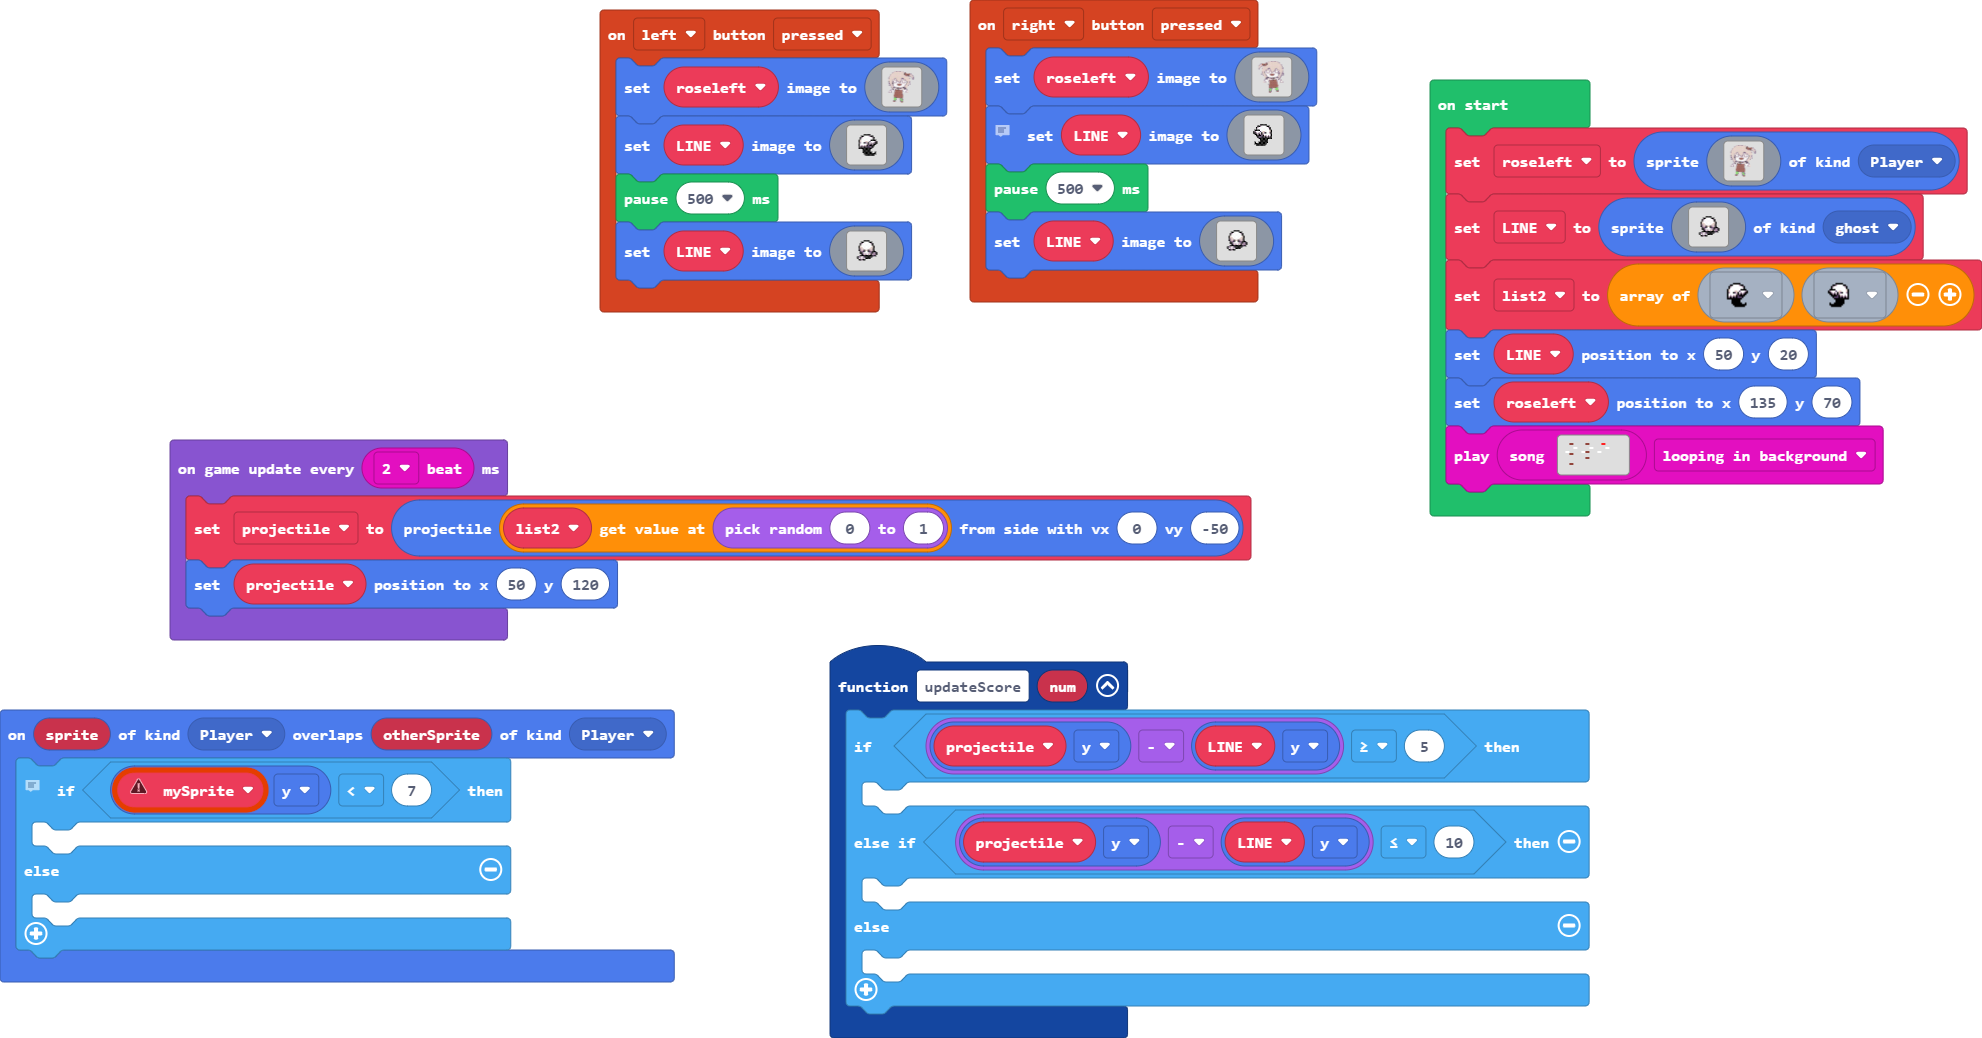
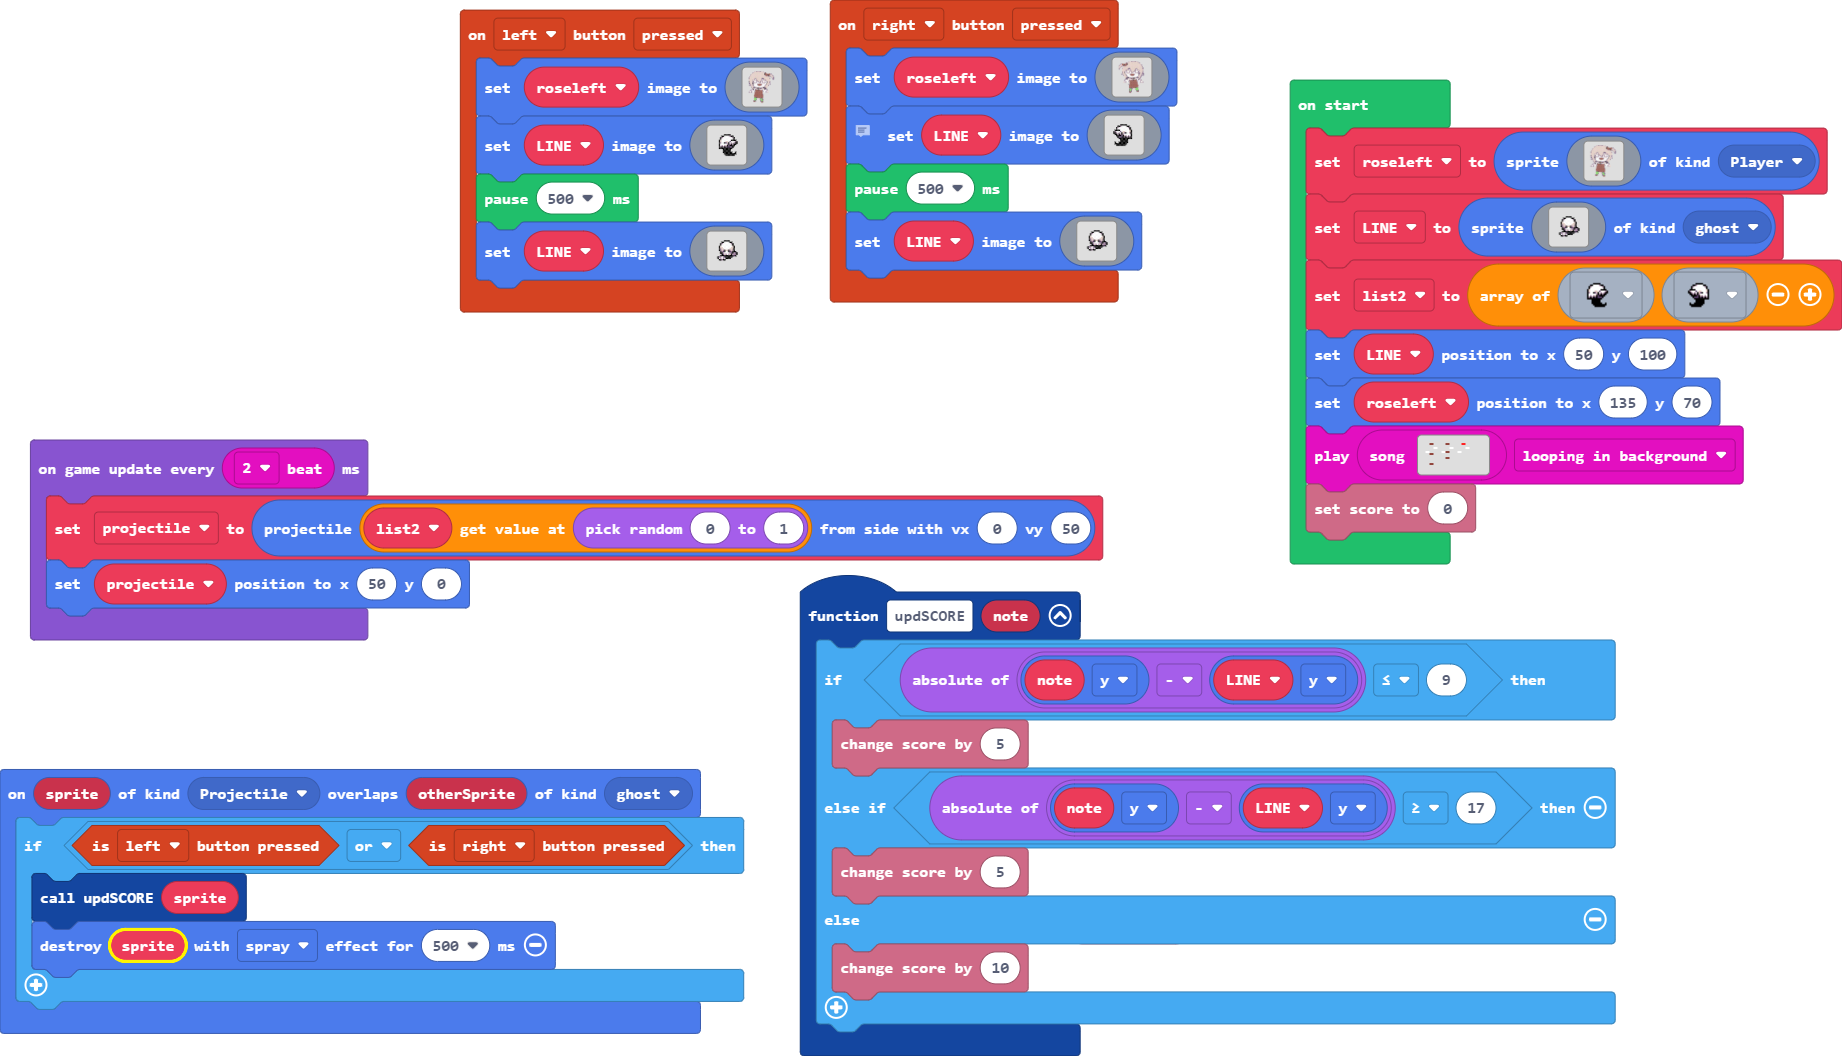
Update main.blocks, main.ts, tilemap.g.jres, tilemap.g.ts

diff --git a/main.ts b/main.ts
@@ -165,25 +165,21 @@ controller.right.onEvent(ControllerButtonEvent.Pressed, function () {
         ........................
         `)
 })
-sprites.onOverlap(SpriteKind.Player, SpriteKind.Player, function (sprite, otherSprite) {
-    let mySprite: Sprite = null
-    // 5>10
-    // 10<12
-    if (mySprite.y < 7) {
-    	
+function updSCORE (note: Sprite) {
+    if (Math.abs(note.y - LINE.y) <= 9) {
+        info.changeScoreBy(5)
+    } else if (Math.abs(note.y - LINE.y) >= 17) {
+        info.changeScoreBy(5)
     } else {
-    	
-    }
-})
-function updateScore (num: number) {
-    if (projectile.y - LINE.y >= 5) {
-    	
-    } else if (projectile.y - LINE.y <= 10) {
-    	
-    } else {
-    	
+        info.changeScoreBy(10)
     }
 }
+sprites.onOverlap(SpriteKind.Projectile, SpriteKind.ghost, function (sprite, otherSprite) {
+    if (controller.left.isPressed() || controller.right.isPressed()) {
+        updSCORE(sprite)
+        sprites.destroy(sprite, effects.spray, 500)
+    }
+})
 let projectile: Sprite = null
 let LINE: Sprite = null
 let roseleft: Sprite = null
@@ -266,10 +262,11 @@ LINE = sprites.create(img`
     ........................
     `, SpriteKind.ghost)
 let list2 = [sprites.castle.skellyAttackLeft1, sprites.castle.skellyAttackRight2]
-LINE.setPosition(50, 20)
+LINE.setPosition(50, 100)
 roseleft.setPosition(135, 70)
 music.play(music.createSong(assets.song`mySong`), music.PlaybackMode.LoopingInBackground)
+info.setScore(0)
 game.onUpdateInterval(music.beat(BeatFraction.Double), function () {
-    projectile = sprites.createProjectileFromSide(list2[randint(0, 1)], 0, -50)
-    projectile.setPosition(50, 120)
+    projectile = sprites.createProjectileFromSide(list2[randint(0, 1)], 0, 50)
+    projectile.setPosition(50, 0)
 })

diff --git a/tilemap.g.ts b/tilemap.g.ts
@@ -146,6 +146,25 @@ namespace myTiles {
 . . . . . . . . . . . . . . . . 
 . . . . . . . . . . . . . . . . 
 `, [myTiles.transparency16], TileScale.Sixteen);
+            case "level9":
+            case "level9":return tiles.createTilemap(hex`1000100000000000000000000000000000000000000000000000000000000000000000000000000000000000000000000000000000000000000000000000000000000000000000000000000000000000000000000000000000000000000000000000000000000000000000000000000000000000000000000000000000000000000000000000000000000000000000000000000000000000000000000000000000000000000000000000000000000000000000000000000000000000000000000000000000000000000000000000000000000000000000000000000000000000000000000000000000000000000000000000000000000000000000000000000000000000`, img`
+. . . . . . . . . . . . . . . . 
+. . . . . . . . . . . . . . . . 
+. . . . . . . . . . . . . . . . 
+. . . . . . . . . . . . . . . . 
+. . . . . . . . . . . . . . . . 
+. . . . . . . . . . . . . . . . 
+. . . . . . . . . . . . . . . . 
+. . . . . . . . . . . . . . . . 
+. . . . . . . . . . . . . . . . 
+. . . . . . . . . . . . . . . . 
+. . . . . . . . . . . . . . . . 
+. . . . . . . . . . . . . . . . 
+. . . . . . . . . . . . . . . . 
+. . . . . . . . . . . . . . . . 
+. . . . . . . . . . . . . . . . 
+. . . . . . . . . . . . . . . . 
+`, [myTiles.transparency16], TileScale.Sixteen);
         }
         return null;
     })
